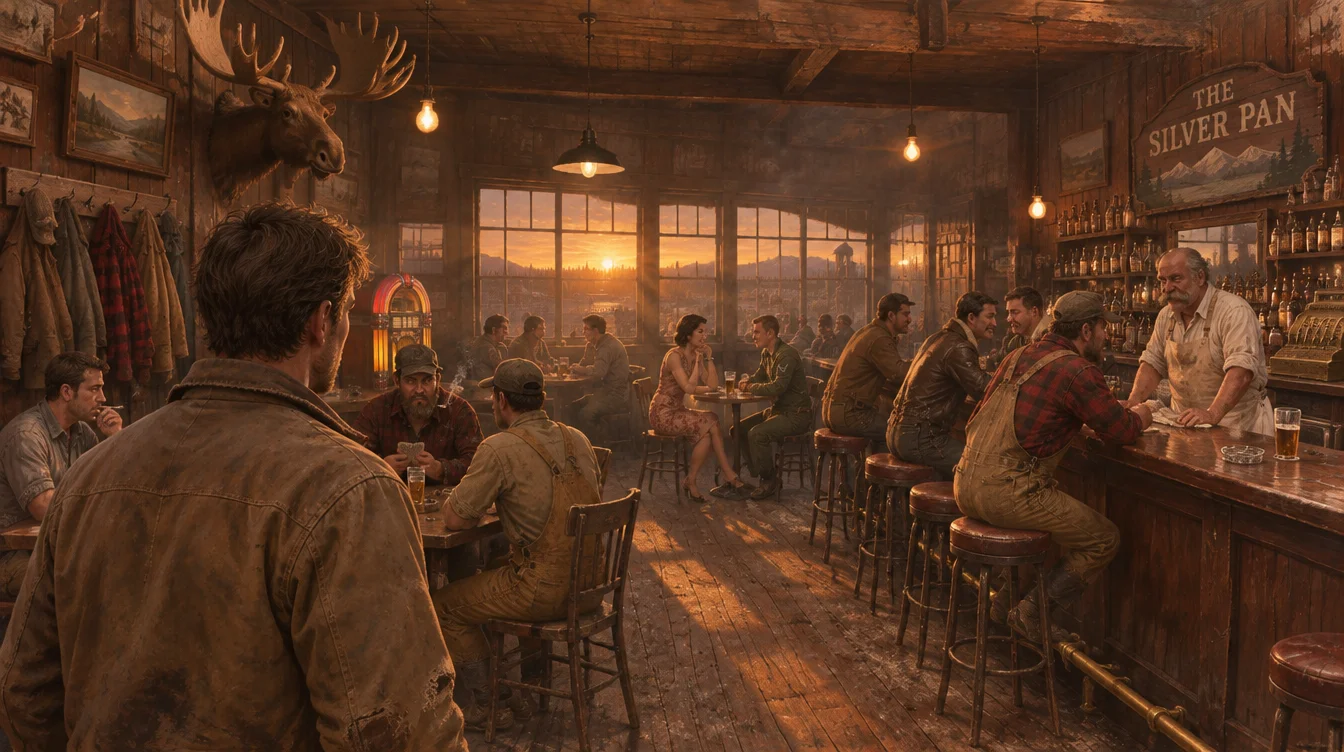
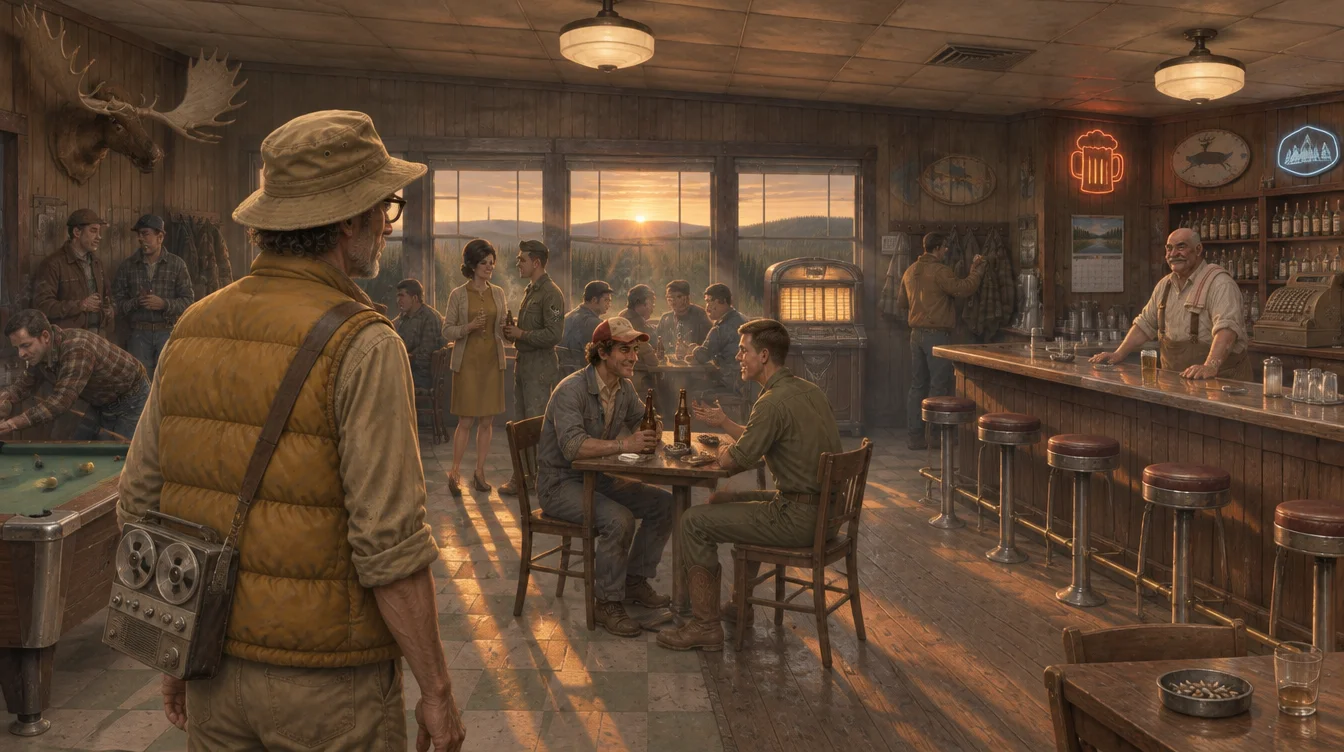
Tighten engine look rules and regenerate targets from character sheets
Review fixes for #52. The camera, fog, sun and texture rules now agree with each other and with the
1967 sky; the targets use the Owen, Hank, Curly and Wade sheets and the muted grade; summer colors come
from the concept sheets and stills, and the moral-weather palettes are marked provisional (#54).
Daylight saving, 2nd Avenue paving and consultant review of the street frame go to fact-checks.

diff --git a/docs/art/README.md b/docs/art/README.md
@@ -10,100 +10,172 @@ Scene stills for the browser build live in `web/public/stills/` (see that folder
 ## Engine look
 
 The engine build aims for **grounded painterly realism**: a third-person world with real proportions, real light and
-worn materials, finished with a slightly painted texture and grade. The feel to reach for is a grounded open-world
-western: warm low sun, haze, things that have been used. Nothing is copied from an existing game: no assets,
-signage, logos, layouts or framings lifted from one, and references are described in words, never traced from
-screenshots. Every rule below is meant to be checked against a render; where a number is possible, there is one.
+worn materials, finished with a slightly painted texture. The feel to reach for is a grounded open-world western: low
+sun, haze, things that have been used. Nothing is copied from an existing game: no assets, signage, logos, layouts or
+framings lifted from one, and references are described in words, never traced from screenshots. Every rule below is
+meant to be checked against a render; where a number is possible, there is one.
+
+**Grade.** Muted and grounded, the palette of the concept sheets in [`concepts/`](concepts/): desaturated khaki,
+olive, faded denim, brown duck, off-white. Warmth comes only from direct sunlight and practical lamps; shade is
+neutral to cool. A frame that is orange all over is wrong even if it is pretty.
 
 ### Target frames
 
-These are what renders get compared to. They are generated reference (GPT Image 2.6, 16:9), not final art, and their
-signage is placeholder.
+These are what renders get compared to. They are generated reference (GPT Image 2.6, 16:9, with the Owen, Hank,
+Curly and Wade character sheets as image references), not final art. Their signage is placeholder, and the
+`second-ave` frame is pending consultant review (see [`fact-checks.md`](../fact-checks.md), item 21).
 
 | Frame | Shows |
 | ----- | ----- |
-| [`targets/silver-pan.webp`](targets/silver-pan.webp) | The Silver Pan at 11 pm in July 1967: midnight sun through smoke, a dozen patrons, the long bar and brass rail, the bartender. |
-| [`targets/second-ave.webp`](targets/second-ave.webp) | 2nd Avenue under the July midnight sun: false fronts and brick, period cars, people on the boardwalk. |
-| [`targets/survey-camp.webp`](targets/survey-camp.webp) | Owen's survey camp on a clearwater gravel bar: the floatplane, the cook tent, the cache on stilts, black spruce. |
+| [`targets/silver-pan.webp`](targets/silver-pan.webp) | The Silver Pan at 11 pm in July 1967, over Owen's shoulder: low sun from the north-northwest over low hills, smoke, Hank behind the bar, Curly and Wade at a table, a dozen patrons. |
+| [`targets/second-ave.webp`](targets/second-ave.webp) | 2nd Avenue looking west under the July midnight sun: paved street, concrete sidewalks, brick and a few false fronts, 1950s-60s cars, the sun off the street axis to the north-northwest. |
+| [`targets/survey-camp.webp`](targets/survey-camp.webp) | Owen's survey camp on a clearwater gravel bar: Curly refueling the floatplane, the cook tent, the cache on stilts, willow, alder and poplar on the bar, black spruce behind; the sun off frame right, shadows falling toward the camera's left. |
 
-A render passes when, side by side with its target at the same size, it matches in camera height, light direction
-and color, value range and density, even if every prop is different.
+**Pass test.** A render passes when, at the same size as its target (or as the rule it illustrates), it holds these
+tolerances. Issue #37 can automate all of them.
+
+| Measure | Tolerance |
+| ------- | --------- |
+| Camera height | 1.7 m ± 0.2 m (with the camera level, the horizon sits within 5% of frame height of center) |
+| Sun elevation | the band's range below, ± 3 degrees |
+| Sun azimuth | the band's azimuth, ± 15 degrees |
+| 1st, 50th and 99th percentile luma | each within ± 10 of the target's (luma as defined under Light) |
+| Mean hue of the frame | within ± 8 degrees of the target's (hue of the frame's mean sRGB color) |
+
+Measured on the targets (1st / 50th / 99th percentile luma; mean hue): `silver-pan` 28 / 68 / 193, 27 degrees;
+`second-ave` 32 / 88 / 205, 22 degrees; `survey-camp` 33 / 78 / 196, 32 degrees.
 
 ### Camera
 
-- **Third person, over the shoulder.** The camera sits at **1.7 m** above the ground (a standing adult's eyes), the
-  pivot on the player's upper chest, framed **0.5 m** right of center. The player fills about a third of the frame
-  height at rest.
+Heights are above the ground under the player. Pitch is positive when the camera looks up and negative when it
+looks down.
+
+- **Pivot and height.** The pivot is the player's eye point, **1.7 m** up. The camera sits at the same height, so at
+  rest it is level (pitch **0 degrees**) and never above the pivot: it does not look down at the player.
+- **Offset.** Camera offset **0.5 m** to the player's right; the player sits left of center, on about the left third
+  line of a 16:9 frame.
 - **Lens: 35-40 mm full-frame equivalent.** PlayCanvas `fov` is vertical, so that is **33-38 degrees**; use **36**.
   The blockout's 45 degrees reads as a wide security camera.
-- **Boom: 2.6 m outdoors, 1.4 m indoors.** Indoors the camera pulls in over **0.4 s** when the player crosses the
-  door, and a **0.25 m** collision sphere keeps it from ever clipping a wall, beam or patron; near clip **0.05 m**.
-- **Pitch: -5 to +10 degrees** at rest (looking slightly up is allowed, looking down at the player is not). No
-  top-down or isometric views in play; a high angle is for cutaways only.
+- **Boom: 2.6 m outdoors, 1.8 m indoors.** At 36 degrees a 2.6 m boom shows about **1.69 m** of height at the player:
+  the player is cropped at mid-thigh and fills about **55-60%** of frame height. Indoors 1.8 m shows about **1.17 m**:
+  waist-up, about the same share of the frame, which is what we want in a crowded bar.
+- **Doors and walls.** Crossing a door blends the boom over **0.4 s**. A **0.25 m** collision sphere pulls the camera
+  in so it never clips a wall, beam or patron; near clip **0.05 m**.
+- **Orbit clamp.** The player may orbit pitch from **-20** to **+15 degrees**; it returns to 0 when released. No
+  top-down or isometric view in play; a high angle is for cutaways only.
 
 ### Light
 
-- **Low sun, long shadows.** The key light in every exterior sits **3-15 degrees** above the horizon (July in
-  Fairbanks at 11 pm is about 3 degrees; winter noon never clears 3). Never above **25 degrees**, except under the
-  flood's overcast, which has no visible sun. Shadows are on for the sun, at least **2048 px** per cascade.
-- **Interiors are lit by their practicals.** Bare bulbs and shaded pendants at about **2700 K** (`#ffb877`), neon,
-  a stove, and the window. The window is the key; bulbs are fill. Warm bounce off wood floors (`#6d442b`) lifts the
-  shadows. No unmotivated light: every bright area has a source the player can find in frame.
+- **Sun elevation by band and season.** The key light follows the real sun closely enough to hold up to a local.
+  - **Prologue, July evenings:** azimuth **330-350 degrees** (north-northwest), elevation **0 to +5 degrees**.
+  - Why: at 11 pm in July the real disc is near or just below the horizon. On standard time (UTC-10) it is about -1
+    to +0.5 degrees; if Alaska kept daylight saving in 1967 it is an hour higher (open question,
+    [`fact-checks.md`](../fact-checks.md) item 19). Either way the midnight sun keeps the northern sky glowing, so the
+    rule holds: a glowing north-northwest horizon, with the key light at or just above it.
+  - **Clean band (alpenglow), winter exteriors:** sun to the south, elevation **0 to +12 degrees**.
+  - Why: the Fairbanks winter sun is low. It reaches about **1.7 degrees** at noon on the solstice and about
+    **10-12 degrees** by mid-February.
+  - **Breakup, Act 4 (spring 1968):** elevation **15 to 40 degrees**. The noon sun passes 20 degrees by mid-March and
+    nears 40 by early May.
+  - **Strained and danger bands:** no sun; the key is streetlights or sodium lamps.
+  - **Flood (August 1967):** overcast, no visible sun.
+  - Sun shadows are on, at least **2048 px** per cascade.
+- **Interiors are lit by their practicals.** Bare bulbs and shaded fixtures at about **2700 K** (`#ffb877`), neon,
+  a stove, and the window. The window is the key; bulbs are fill. Warm bounce off wood floors lifts the shadows. No
+  unmotivated light: every bright area has a source the player can find in frame.
 - **Haze and shafts.** Smoke indoors, dust and mosquito haze outdoors in summer, ice fog in deep winter. Wherever the
   sun or a lamp crosses haze, it shows as a shaft or a halo.
-- **Shadows are never pure black.** The darkest 1% of pixels in a frame sits at **luma 16/255 or above** (the
-  targets measure 20-25). Shadow color carries the scene's temperature: warm brown indoors (`#311d12`), cool slate
-  outdoors in winter.
+- **Shadow floor.** Measured as Rec.709 luma (0.2126 R + 0.7152 G + 0.0722 B) on the final sRGB frame at
+  1920x1080 without UI: the **1st percentile is 16 or above**. The targets measure **28-33**. Shadow color carries
+  the scene's temperature: warm brown indoors, neutral to cool outdoors.
 
 #### Summer, the Prologue (July 1967)
 
-Midnight sun: palette sampled from the target frames and the Prologue stills.
+Sampled from the concept sheets and the Prologue stills (`web/public/stills/p_*.webp`), not from the target frames.
+The sky values are carried over from the blockout and are provisional.
 
 | Role | Hex |
 | ---- | --- |
-| Sun and lit faces | `#d3a990`, `#9a6541` |
-| Mid tones (wood, duck canvas) | `#987359`, `#765843`, `#6d442b` |
-| Shadow floor | `#311d12`, `#34261b` |
-| Sky toward the sun / away | `#f3b98a` / `#8f86a8` |
+| Sunlit skin and wood | `#b98251`, `#a77c5e` |
+| Mid tones (khaki, brown duck, worn wood) | `#936f4b`, `#7c5a3c`, `#593d28` |
+| Light neutrals (shirts, canvas, paper) | `#b7a798`, `#b39f8f` |
+| Shadow floor | `#2f2219`, `#2f2726` |
+| Sky toward the sun / away (provisional) | `#f3b98a` / `#7d8fb8` |
 
-Fog: **start 50 m, end 350 m** outdoors; indoors **15 m / 120 m** at low density, so the far wall of a smoky bar is
-slightly veiled but readable.
+Fog is linear (`FOG_LINEAR`).
+
+- **Outdoors: start 30 m, end 220 m.** The downtown play area is about 250 x 200 m, so fog never has to hide more
+  than the town.
+- **Indoors: start 2 m, end 60 m.** In the 12 x 10 m Silver Pan the far wall, about 11 m from the camera, is veiled
+  **10-20%** (here about 15%). A 25 m end would veil it about 40% and read as a fire.
 
 #### Moral weather (Act 1 on)
 
 The three bands from [`design.md`](../../design.md) ("Moral weather") are lighting presets the engine picks from
-story state. Same places, same props; only light, fog and sky change. The palettes below are drafted from the
-stills and the style board's description; resample them from the owner's alpenglow photo once it is committed.
+story state. Same places, same props; only light, fog and sky change.
 
-| Band | When | Sun / key | Sky (zenith, horizon) | Lit surface, shade | Fog color | Fog start-end |
-| ---- | ---- | --------- | --------------------- | ------------------ | --------- | ------------- |
-| **Alpenglow** | clean | `#ffc7a6`, 3-8 degrees | `#7f8fb5`, `#f2b8a8` | `#f6d7cf`, `#9aa5c4` | `#e7c4c0` | **80-450 m** |
-| **Blue hour** | strained | streetlights `#ffd9a0`; no sun | `#2f3d6b`, `#6d7fae` | `#8b9ac4`, `#4a5680` | `#4f5f8a` | **35-180 m** |
+**These palettes are provisional.** They are drafted from the stills and the style board's description, because the
+owner's alpenglow photo is not in the repo. They are to be resampled from the photo in #54.
+
+| Band | When | Key | Sky (zenith, horizon) | Lit surface, shade | Fog color | Fog start-end |
+| ---- | ---- | --- | --------------------- | ------------------ | --------- | ------------- |
+| **Alpenglow** | clean | sun `#ffc7a6` | `#7f8fb5`, `#f2b8a8` | `#f6d7cf`, `#9aa5c4` | `#e7c4c0` | **60-240 m** |
+| **Blue hour** | strained | streetlights `#ffd9a0` | `#2f3d6b`, `#6d7fae` | `#8b9ac4`, `#4a5680` | `#4f5f8a` | **30-160 m** |
 | **Sodium in ice fog** | danger | sodium lamps `#ff9a3c` | `#1a1a20`, `#3a3026` | `#8a6f50`, `#2a2622` | `#6b5a44` | **6-70 m** |
 
 At danger, sight lines collapse to one block: nothing past **70 m** is visible, and each sodium lamp reads as a halo
-about **4 m** across. The values in `game/src/lighting.ts` today are blockout placeholders; this table supersedes
+about **4 m** across. The values in `game/src/lighting.ts` today are blockout placeholders; these tables supersede
 them.
+
+#### Beyond the play area
+
+- Every outdoor space has a **skyline and terrain shell** beyond the playable edge: the hills, the river line, the
+  far side of town, as low-poly cards or terrain out to about **5 km**.
+- The shell sets `useFog = false` and bakes its own haze into its albedo, so it stays visible past the scene's fog
+  end.
+- The camera's `farClip` is at least the fog end for world geometry and at least the shell's radius.
 
 ### Materials
 
-- **PBR, metal/rough.** Albedo, normal, roughness and ambient occlusion on everything; metalness only on bare metal.
-- **Texel density.** **512 px/m** for hero props, anything within arm's reach or read up close (the bar top, the
-  notebook, the tape recorder, guns, tools, the floatplane cowling). **256 px/m** for buildings, interiors' walls and
-  floors, and vehicles. **128 px/m** for terrain, with a tiling detail map. Characters **1024 px/m** for the body,
-  **2048 px/m** for the head and hands. Why: at a 36 degree vertical lens and 1080 lines, a surface **3 m** away gets
-  about 520 screen px per meter, and a building **6 m** away about 260, so these densities match what the camera can
-  resolve at the distances where each class is usually seen, without paying for texels nobody sees.
+- **PBR, metal/rough.** Each material set is albedo, normal, and one packed map with ambient occlusion, roughness and
+  metalness in its R, G and B channels. Metalness is non-zero only on bare metal.
+- **Compression.** All textures ship as KTX2 with Basis Universal (UASTC for normals, ETC1S or UASTC for the rest),
+  with mipmaps.
+- **Texel density.** Screen pixels per meter at 36 degrees and 1080 lines are 1080 / (2 d tan 18), about **554 px/m
+  at 3 m** and **277 px/m at 6 m**. The densities match the distances where each class is usually seen:
+  - **512 px/m** for hero props, anything within arm's reach or read up close (the bar top, the notebook, the tape
+    recorder, tools, the floatplane cowling);
+  - **256 px/m** for architecture and vehicles, built from tiling materials and trim sheets, not unique unwraps;
+  - **128 px/m** for terrain, with a tiling detail map.
+- **Characters.** Each hero character gets at most one **2k** body set (about 1024 px/m on a 1.8 m figure) and one
+  **1k** head set (about 2048 px/m on the face). NPCs share sets or drop a mip. Higher densities are kept for
+  dialogue close-ups only, loaded for the shot.
+- **Budget: 512 MB of texture memory per space**, after compression (the figure #37 measures).
+
+  Worked example, the Silver Pan at peak density. A 2k set (albedo, normal, packed) is about 16.8 MB with mips
+  (4.2 M texels x 1 byte x 3 maps x 1.33); a 1k set is about 4.2 MB.
+
+  | Use | Sets | MB |
+  | --- | ---- | -- |
+  | Architecture: 4 tiling materials, 2 trim sheets | 6 x 2k | 101 |
+  | Hero props (bar top, register, jukebox, recorder, notebook) | 2 x 2k atlases | 34 |
+  | Dressing props, 180 or more | 6 x 2k atlases | 101 |
+  | Hero characters: Owen, Hank, Curly, Wade | 4 x (2k + 1k) | 84 |
+  | About ten other patrons | 3 shared x (2k + 1k) | 63 |
+  | Decals (grime, rings, scuffs) | 1 x 2k | 17 |
+  | Lightmaps and reflection probe | | 46 |
+  | UI and fonts | | 10 |
+  | **Total** | | **456** |
+
 - **Wear and grime.** Edges are worn through to the layer below (paint to wood, wood to grain, enamel to rust).
   Grime collects in corners, under rails, at the base of walls, around handles and where hands go. Floors show paths:
   a worn track from door to bar, a clean patch under the stools' footrests.
-- **The painterly feel comes from texture painting and the grade**, not from flat or toon shading: hand-painted
-  albedo with visible stroke breakup at about 5-10 cm scale, slight color variation across any flat surface, and a
-  warm, slightly lifted, slightly desaturated grade.
+- **The painterly feel comes from texture painting**, not from flat or toon shading: hand-painted albedo with visible
+  stroke breakup at about 5-10 cm scale, and slight color variation across any flat surface.
 - **No-go list.**
   - plastic sheen: no roughness below **0.3** except glass, wet surfaces, brass and polished bar tops;
-  - saturated primaries: no albedo above about **70% HSV saturation**, and no pure red, blue or yellow;
-  - pure black shadows (see Light);
+  - saturated color: no albedo above about **70% HSV saturation**;
+  - pure black shadows (see the shadow floor under Light);
   - flat, unlit color: no material without a normal map and roughness variation, no `useLighting = false` on world
     geometry;
   - real brand names, logos or legible real signage; signs are fictional and hand-painted.
@@ -111,11 +183,14 @@ them.
 ### Density
 
 - **Every surface tells you who uses it.** A bar top has rings, ashtrays and someone's hat; a workbench has the tool
-  its owner reaches for most; a boardwalk has the cigarette butts outside the door people smoke at.
-- **Interiors: at least 1.5 dressing props per square meter of floor**, counting anything a glass or larger. The
-  Silver Pan (about 12 x 8 m) carries at least 150. No camera-facing 2 x 2 m patch of wall or floor is bare.
-- **Street: at least 0.3 props per square meter** of boardwalk and frontage (a 5 m strip on each side), plus a parked
-  vehicle every **15 m** of curb, a power pole every **30 m**, and at least **6 people per 100 m** of block in daytime.
+  its owner reaches for most; a sidewalk has the cigarette butts outside the door people smoke at.
+- **What counts as a prop:** an object with its own mesh, at least about **15 cm** in its largest dimension. Decals
+  and smaller items add texture but do not count.
+- **Interiors: at least 1.5 props per square meter of floor.** The Silver Pan is 12 x 10 m in `game/src/levels.ts`,
+  so it carries at least **180**. No camera-facing 2 x 2 m patch of wall or floor is bare.
+- **Street: at least 0.3 props per square meter** of sidewalk and frontage (a 5 m strip on each side), plus a parked
+  vehicle every **15 m** of curb, a power pole every **30 m**, and at least **6 people per 100 m** of block in the
+  summer evening.
 - **Camps and wilderness: clustered.** At least 1 prop per square meter within 6 m of a tent or fire; bare gravel and
   brush beyond, so use reads as a pocket in the country.
 
@@ -124,12 +199,14 @@ them.
 - **Realistic proportions** (about 7.5 heads tall) and the faces from [`concepts/`](concepts/). The rigged models are
   built from clean A-pose references in the same grounded painterly realism; nothing is stylized or caricatured.
 - **1967 Fairbanks clothing, by season.**
-  - Summer (Prologue, Act 1): flannel and chambray shirts, Carhartt-type duck jackets and bib overalls, work pants,
-    ball caps and felt hats; airmen in olive utility fatigues; women in cardigans, knee-length skirts or slacks.
-  - Fall (Act 2): wool shirts, mackinaws, down vests, rubber-bottomed boots, knit caps.
+  - Summer (Prologue, Act 1): flannel and chambray shirts, brown duck-canvas work jackets and bib overalls, work
+    pants, ball caps and felt hats; airmen in olive utility fatigues; women in cardigans, knee-length skirts or
+    slacks.
+  - Fall (Act 2): wool shirts, mackinaws, rubber-bottomed boots, knit caps.
   - Winter, after freeze-up only (Act 3): parkas with fur ruffs, Air Force N-3B parkas and white bunny boots, wool
     liners and mittens, fur hats. No parka appears before freeze-up.
   - Breakup (Act 4): rubber boots, mud to the shin, layers coming off.
+  - Any season: light down or canvas vests on field workers (Owen wears his in July).
 - Eli, Lucy and other Native residents wear the same town and work clothes as everyone else in the season, with
   their own particulars from the concept sheets; nothing is costume.
 - Clothes carry wear the way materials do: knees and cuffs, grease where hands wipe, salt and sweat at the collar.

diff --git a/docs/fact-checks.md b/docs/fact-checks.md
@@ -292,3 +292,37 @@ Ordered by impact.
 - Exact pipeline crossing points on the Chatanika and Tolovana: TAPS route maps (1971-74) and USGS open-file reports 75-87 and 78-611.
 - Alaska State Troopers ranks in 1967: DPS historical rosters, Alaska State Archives.
 - Real descendants of E.T. Barnette: Alaska State Library genealogy resources.
+- Whether Alaska observed daylight saving time in summer 1967 (item 19): Fairbanks Daily News-Miner sun tables, July 1967.
+- Whether downtown 2nd Avenue was paved by 1967 (item 20): dated photographs in the UAF archives.
+
+## Engine look checks (issue #32)
+
+Questions raised by the art direction in [`art/README.md`](art/README.md#engine-look). None changes the plot.
+
+### 19. Daylight saving time in Fairbanks, summer 1967
+
+**Claim.** The Silver Pan and 2nd Avenue target frames are set at 11 pm in July 1967, with the sun at or just above the north-northwest horizon.
+
+**Verdict.** Unknown.
+
+**Evidence.** Fairbanks kept Alaska-Hawaii Standard Time (UTC-10) in 1967. The Uniform Time Act of 1966 took effect in 1967 and let a state opt out of daylight saving by law; whether Alaska observed it in summer 1967 is not settled here. On standard time the sun at 11 pm in mid-July is about -1 to +0.5 degrees; on daylight time the same clock hour is an hour earlier by the sun, about 2 degrees higher.
+
+**Recommended change.** None needed: the art rule is written to hold either way (a glowing north-northwest horizon with the key light at or just above it). Settle it with the Fairbanks Daily News-Miner's sunrise and sunset tables for July 1967.
+
+### 20. Was downtown 2nd Avenue paved by 1967?
+
+**Claim.** The `second-ave` target shows a paved street with concrete sidewalks and curbs.
+
+**Verdict.** Unknown; likely yes.
+
+**Evidence.** Downtown Fairbanks streets were being paved through the 1950s, and photographs of the 1967 flood show water over what look like paved downtown streets with curbs. Not verified against a dated source.
+
+**Recommended change.** Keep the paved street unless a dated photograph of 2nd Avenue in 1966-68 shows otherwise. Check the University of Alaska Fairbanks archives' flood photographs.
+
+### 21. Consultant review: the `second-ave` target frame
+
+**Claim.** The frame includes an ordinary Alaska Native resident in summer town clothes (plaid shirt, work pants, cap, carrying groceries) among the people on the street.
+
+**Verdict.** Pending review.
+
+**Recommended change.** Before the frame guides any character or crowd work, have a Lower Tanana or Tanana Chiefs consultant look at how the Native resident is drawn, together with the Eli, Lucy and officer concept sheets already flagged in `art/README.md`.
